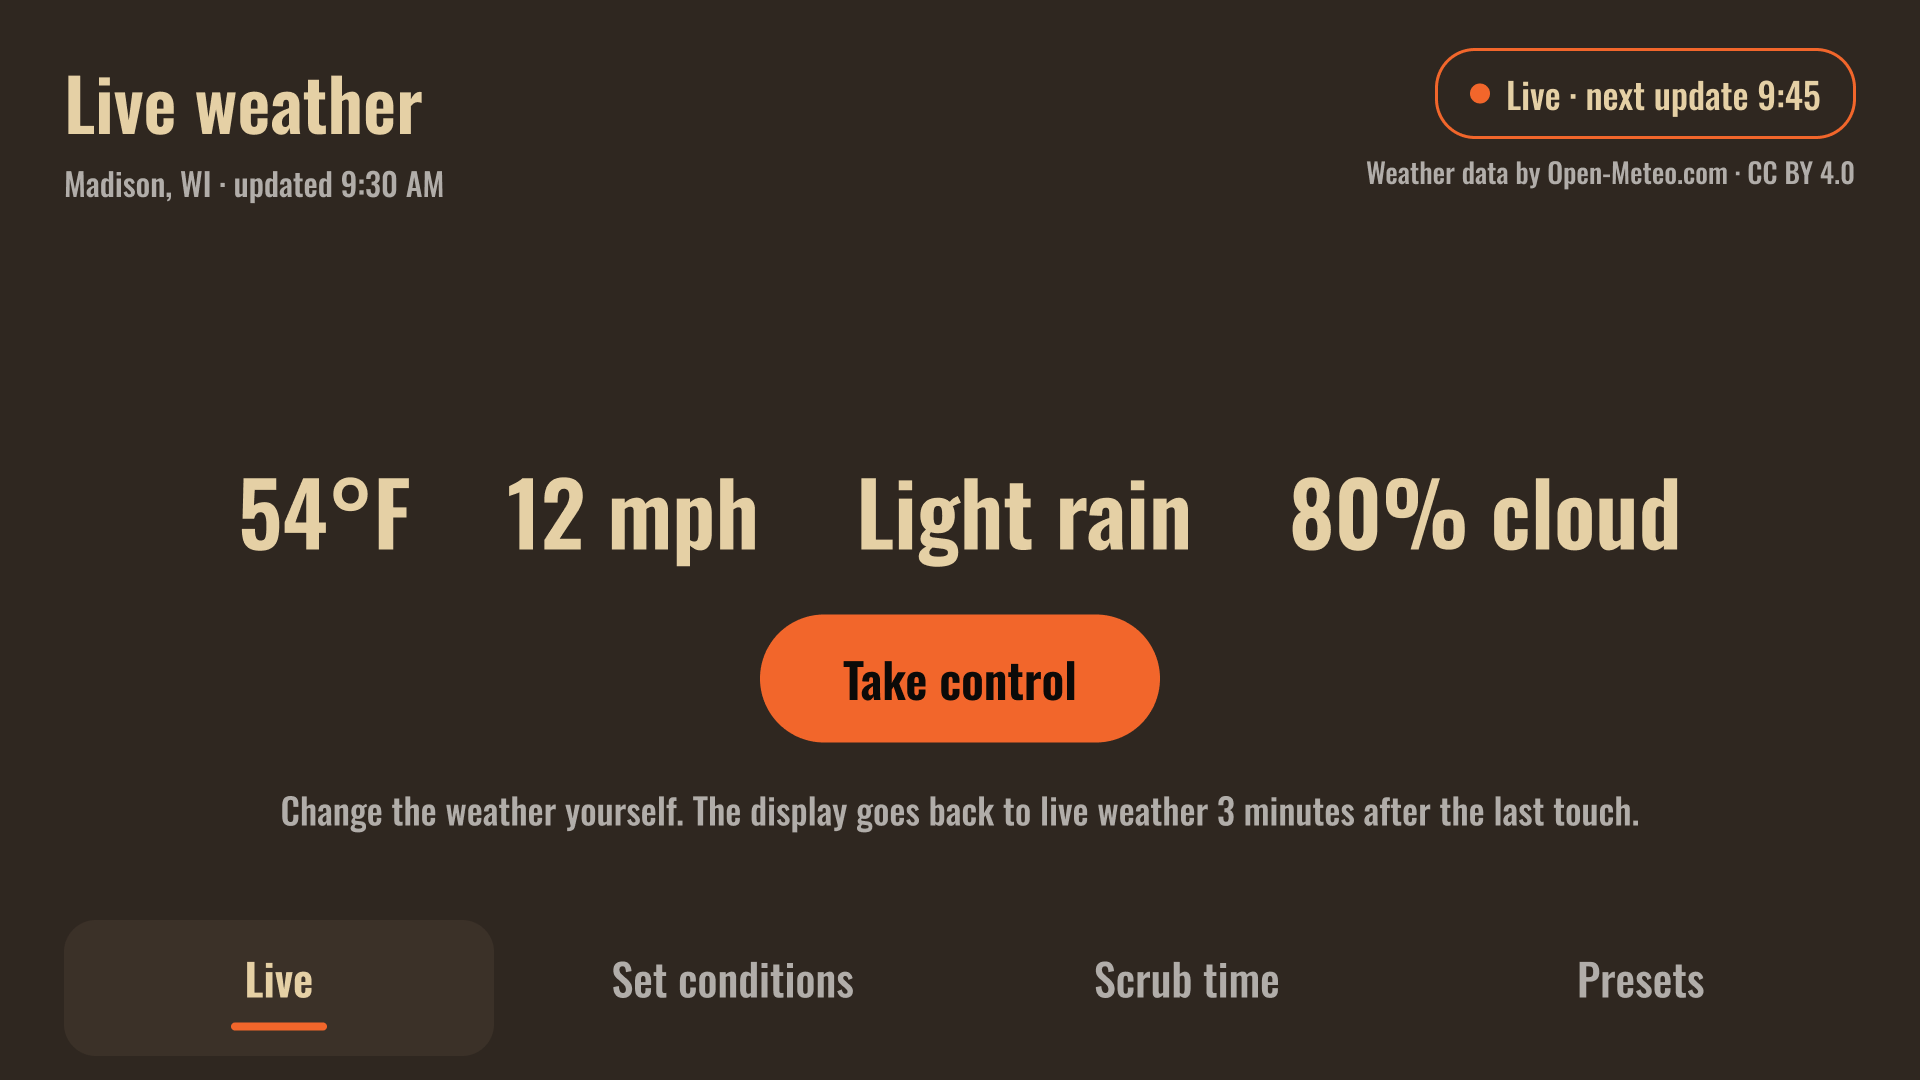
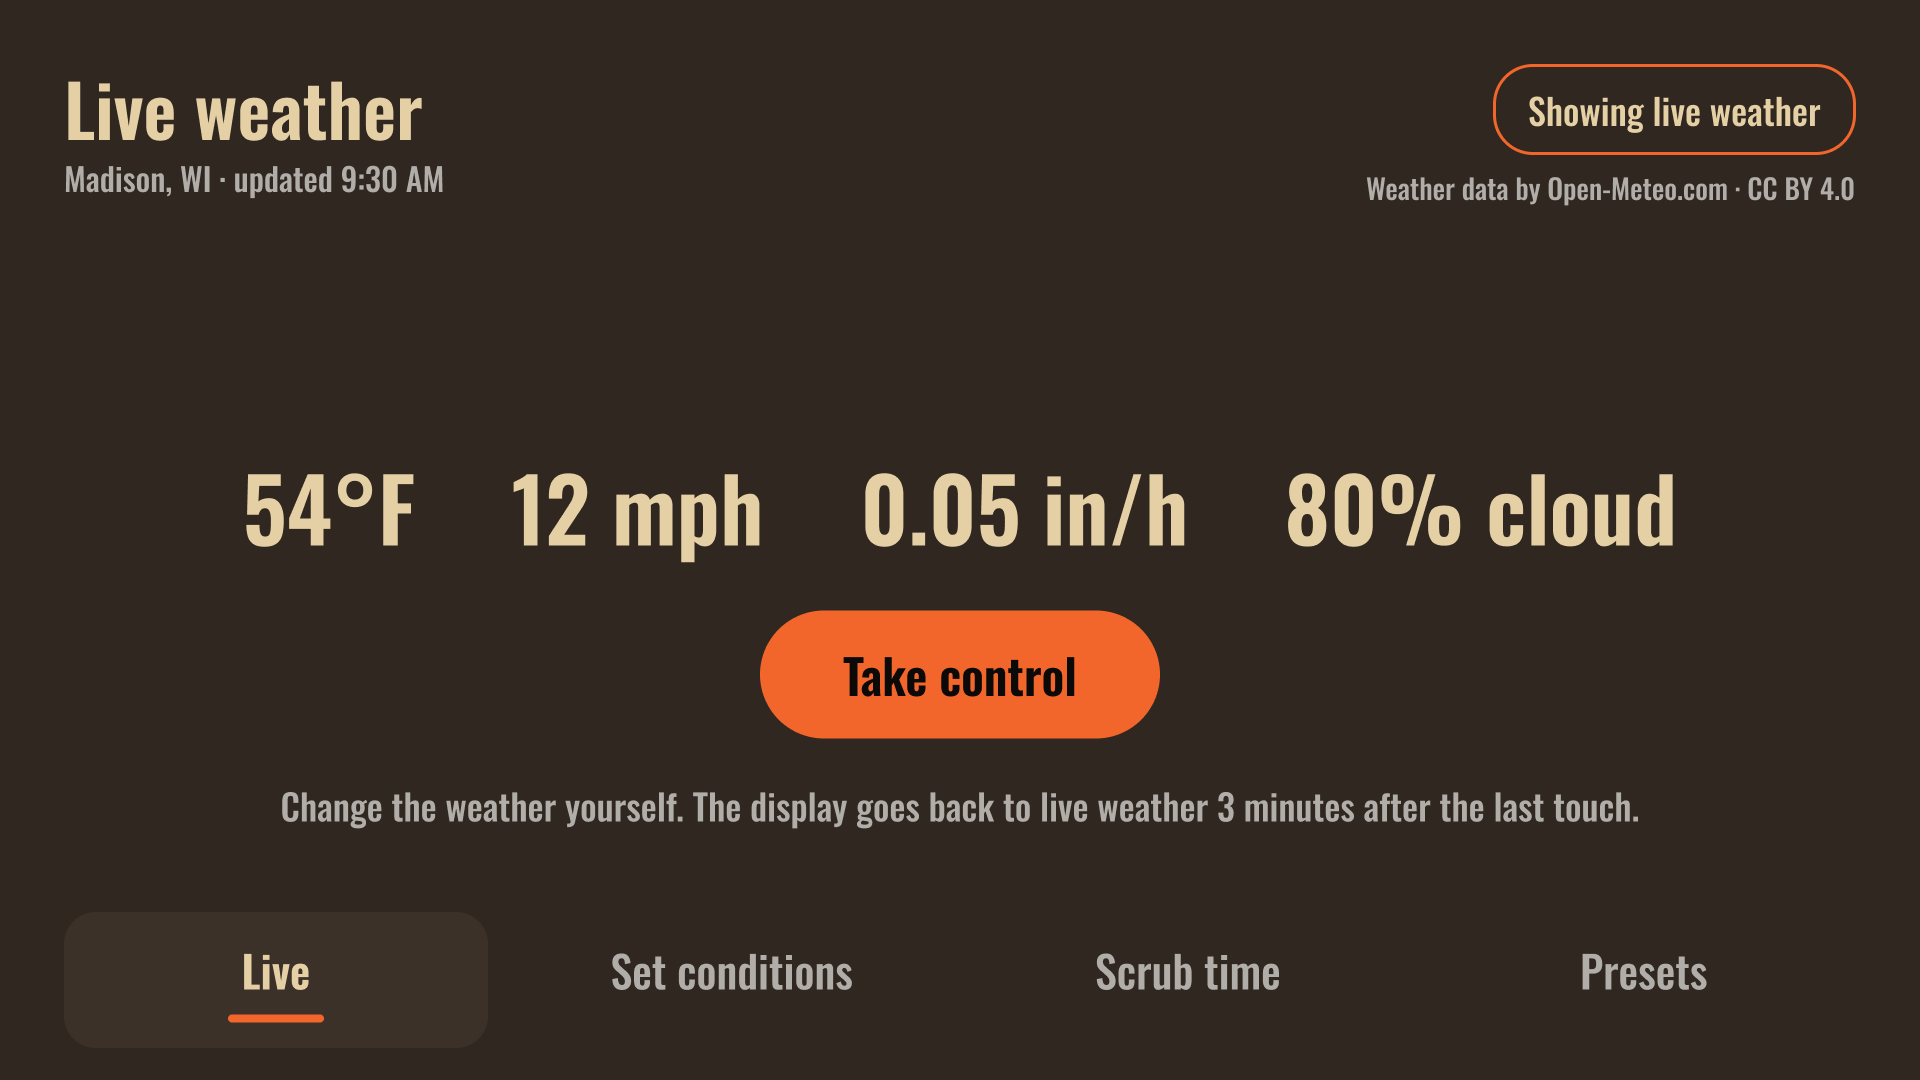
Updated display examples.

diff --git a/app.css b/app.css
@@ -1,13 +1,5 @@
 @import url("https://fonts.googleapis.com/css2?family=Oswald:wght@500;600&display=swap");
 @import "tailwindcss";
-@source not "./SPEC.md";
-@source not "./README.md";
-@source not "./CLAUDE.md";
-@source not "./tests";
-@source not "./design";
-@source not "./.github";
-@source not "./snapshot.json";
-@source not "./package.json";
 
 /*
   Your design tokens. Write these by hand from your Figma variables panel.
@@ -74,6 +66,7 @@
   --font-display: "Oswald", sans-serif;
   --text-display: 88px;
   --text-title: 72px;
+  --text-title--line-height: 1.2;
   --text-heading: 64px;
   --text-action: 48px;
   --text-nav: 44px;
@@ -81,10 +74,12 @@
   --text-label: 32px;
   --text-small: 28px;
   --text-caption-value: 91px;
+  --text-caption-value--line-height: 1.2;
   --text-caption-unit: 72px;
   --text-caption-label: 26px;
   --text-caption-credit: 25px;
   --tracking-caption-label: 0.2em;
+  --tracking-panel-label: 0.12em;
 
   /* Display: artwork geometry */
   --ring-center-x: 595px;
@@ -152,6 +147,12 @@
   --panel-size-nav: 136px;
   --panel-size-rail: 16px;
   --panel-border-chip: 3px;
+  --panel-size-top-region: 360px;
+  --panel-size-indicator: 8px;
+  --panel-size-toggle-option: 280px;
+  --panel-size-swatch: 128px;
+  --panel-radius-swatch: 16px;
+  --panel-border-thumb: 8px;
 }
 
 /* Preview only: scales the full-size Display to fit your browser window. */
@@ -160,56 +161,4 @@
   height: 100vh !important;
   width: auto !important;
   margin: 0 auto;
-}
-
-/*
-  Touchscreen slider (Panel / Slider). The input is the full touch target
-  (--panel-size-target-min); the rail runs between the thumb's centers at either end, filled up
-  to the thumb. panel.js sets --fill (0 to 1) from the slider's value.
-*/
-@layer components {
-  .panel-slider {
-    --thumb-half: calc(var(--panel-size-thumb) / 2);
-    --fill-at: calc(var(--thumb-half) + (100% - var(--panel-size-thumb)) * var(--fill, 0));
-    --rail: linear-gradient(
-      to right,
-      transparent var(--thumb-half),
-      var(--panel-color-accent) var(--thumb-half) var(--fill-at),
-      var(--panel-color-rail) var(--fill-at) calc(100% - var(--thumb-half)),
-      transparent calc(100% - var(--thumb-half))
-    );
-    appearance: none;
-    width: 100%;
-    height: var(--panel-size-target-min);
-    margin: 0;
-    background: transparent;
-  }
-
-  .panel-slider::-webkit-slider-runnable-track {
-    height: var(--panel-size-rail);
-    background: var(--rail);
-  }
-
-  .panel-slider::-moz-range-track {
-    height: var(--panel-size-rail);
-    background: var(--rail);
-  }
-
-  .panel-slider::-webkit-slider-thumb {
-    appearance: none;
-    width: var(--panel-size-thumb);
-    height: var(--panel-size-thumb);
-    margin-top: calc((var(--panel-size-rail) - var(--panel-size-thumb)) / 2);
-    border: 0;
-    border-radius: var(--panel-radius-pill);
-    background: var(--panel-color-thumb);
-  }
-
-  .panel-slider::-moz-range-thumb {
-    width: var(--panel-size-thumb);
-    height: var(--panel-size-thumb);
-    border: 0;
-    border-radius: var(--panel-radius-pill);
-    background: var(--panel-color-thumb);
-  }
 }

diff --git a/SPEC.md b/SPEC.md
@@ -211,6 +211,12 @@ Units in app.css: lengths in px at the 1080 × 1920 frame, angles in deg, opacit
 | panel/size/nav | --panel-size-nav | 136px |
 | panel/size/rail | --panel-size-rail | 16px |
 | panel/border/chip | --panel-border-chip | 3px |
+| panel/size/top-region | --panel-size-top-region | 360px |
+| panel/size/indicator | --panel-size-indicator | 8px |
+| panel/size/toggle-option | --panel-size-toggle-option | 280px |
+| panel/size/swatch | --panel-size-swatch | 128px |
+| panel/radius/swatch | --panel-radius-swatch | 16px |
+| panel/border/thumb | --panel-border-thumb | 8px |
 
 **Type** (Oswald from Google Fonts, SIL Open Font License 1.1; weights 500 Medium and 600 SemiBold)
 
@@ -219,6 +225,7 @@ Units in app.css: lengths in px at the 1080 × 1920 frame, angles in deg, opacit
 | font/display | --font-display | "Oswald", sans-serif |
 | text/display | --text-display | 88px |
 | text/title | --text-title | 72px |
+| text/title--line-height | --text-title--line-height | 1.2 |
 | text/heading | --text-heading | 64px |
 | text/action | --text-action | 48px |
 | text/nav | --text-nav | 44px |
@@ -231,6 +238,7 @@ Units in app.css: lengths in px at the 1080 × 1920 frame, angles in deg, opacit
 | text/caption-label | --text-caption-label | 26px |
 | text/caption-credit | --text-caption-credit | 25px |
 | tracking/caption-label | --tracking-caption-label | 0.2em |
+| tracking/panel-label | --tracking-panel-label | 0.12em |
 
 Tailwind v4 turns `--font-*` into `font-*` classes and `--text-*` into `text-*` classes. Every text layer in the Figma file is bound to one of these sizes.
 
@@ -240,7 +248,7 @@ Designed: page Control Panel, at 1920 × 1080 landscape.
 
 | Screen | Control | Mapping row it drives |
 |---|---|---|
-| Live | "Take control" button | None. Opens Set conditions and starts the 3-minute countdown. |
+| Live | "Take control" button | None. Opens Set conditions and starts the 3-minute countdown. The Live screen also shows the current readings as text (rain as in/h, or "No rain" when dry) and the chip reads "Showing live weather". |
 | Set conditions | Temperature slider, −10 to 90 °F | Row 1 (ring spacing) and row 2 (ring color) |
 | Set conditions | Wind slider, 0 to 40 mph | Row 3 (rope lean) |
 | Set conditions | Rain slider, 0 to 0.4 in/h | Row 4 (wetness) |
@@ -252,7 +260,7 @@ Designed: page Control Panel, at 1920 × 1080 landscape.
 | Presets | Deep cold tile: −8 °F, 12 mph, 0 in/h, 0% | All five rows |
 | Every screen | Nav tabs: Live, Set conditions, Scrub time, Presets | None, except that Live returns all five rows to live weather immediately |
 
-Every screen uses the same frame: a top third (y 0–360, marked with a guide) that holds Panel / Status only, the controls below it, and a bottom nav of four Panel / Nav tab instances (440 × 136). Touch targets: buttons 128 px tall, slider tracks 96 px with an 88 px thumb, toggle options 280 × 112, tiles 540 × 400. There are no hover states and no typing. The status chip reads "Live weather returns in m:ss" and counts down from 3:00 after the last touch; at 0:00 the touchscreen returns to Live and the Display returns to live weather. An active tab shows a surface fill and an orange underline, so selection is never shown by color alone.
+Every screen uses the same frame. The top region is `--panel-size-top-region` tall (360 px, marked with a guide), with `--panel-space-l` padding, and holds only Panel / Status and the data credit. The credit on the touchscreen is plain text, not a link, so a tap can't navigate the kiosk away. Below it sit the controls, then a bottom nav of four equal-width Panel / Nav tab instances, `--panel-size-nav` tall, `--panel-space-m` apart, with `--panel-space-m` below. The active tab shows a `--panel-size-target-min` × `--panel-size-indicator` bar in the accent color. Touch targets: buttons 128 px tall, slider tracks 96 px with an 88 px thumb ringed by `--panel-border-thumb` in the accent color, toggle options `--panel-size-toggle-option` × 96 and equal in width, and preset tiles in three equal columns `--panel-space-l` apart, 400 tall, padded `--panel-space-m`, with a `--panel-size-swatch` preview rounded `--panel-radius-swatch`. Slider rows are two equal columns `--panel-space-l` apart. Slider labels use `--tracking-panel-label`. Rails and fills have fully rounded ends. There are no hover states and no typing. The status chip reads "Live weather returns in m:ss" and counts down from 3:00 after the last touch; at 0:00 the touchscreen returns to Live and the Display returns to live weather. An active tab shows a surface fill and an orange underline, so selection is never shown by color alone.
 
 Slider positions are the variants Position=0 to Position=100 in steps of 5. Choose round((value − min) / (max − min) × 20) × 5.
 
